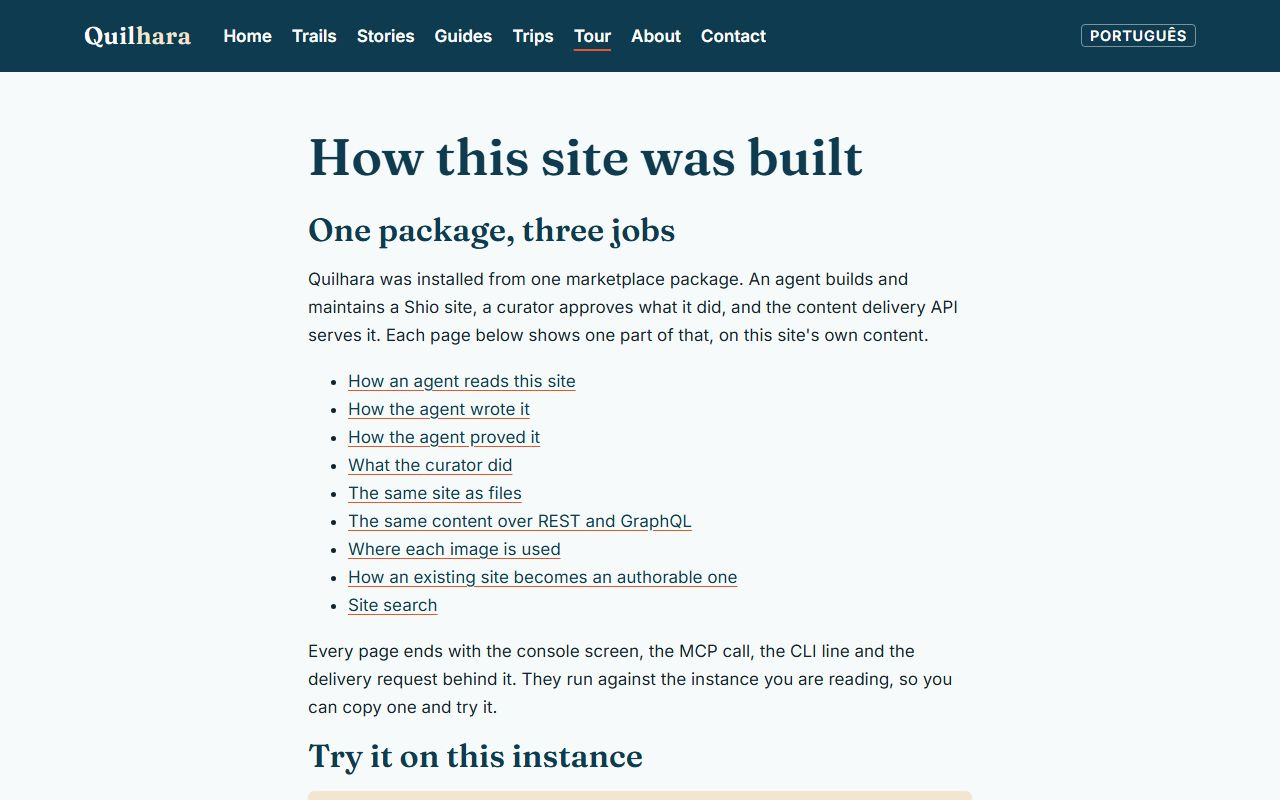
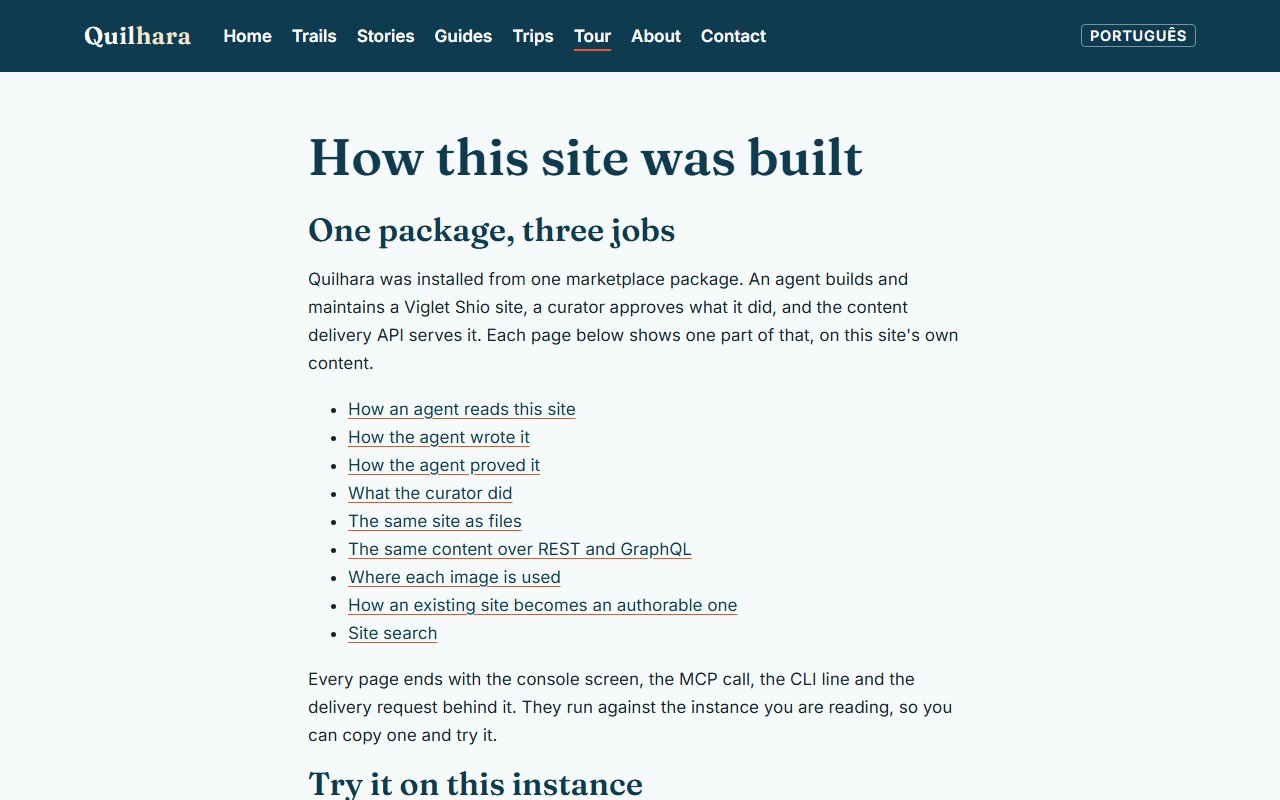
docs(marketplace): name the product in full on the Quilhara pages and retake the tour screenshot (SH1376)
- This commit updates the Quilhara sample pages to consistently use the full product name "Viglet Shio" in both English and Portuguese, aligning with the established naming conventions.
- The tour screenshot has been retaken to reflect the updated content, ensuring that visual representations match the textual changes.
- A new test has been added to verify that the Quilhara showcase pages do not contain any bare product names, reinforcing the commitment to using the full name throughout the documentation.
- The changes enhance clarity for users by providing consistent branding and product identification across all relevant pages and materials.

Changed region(s): [[0.2188, 0.375, 0.75, 1.0]]

diff --git a/shio-site/docs/src/content/docs/COVERAGE.md b/shio-site/docs/src/content/docs/COVERAGE.md
@@ -245,7 +245,7 @@ These shipped blocks are engineering, repository, or marketing concerns with no 
 | **SH1259**: the CI jobs that boot a live instance set the admin password through `SHIO_ADMIN_PASSWORD` and wait until it authenticates, instead of racing the first-access setup | CI plumbing; the headless password bootstrap it relies on is already documented where an operator meets it |
 | **Block R**: this documentation round: the coverage gate (SH479), the four sidebar hubs (SH482), the pages the rest of the block files into them, and the two instruments that execute their examples (SH499) | Meta: it produced the pages in this very matrix. The hubs are navigation, so they change no verdict below; they are where a 🔴 becomes a page. SH499 closed the block by making these pages *checkable*: `cli/conformance/docs-vocabulary.conformance.mjs` holds every `shio` verb, REST path, `shio_*` tool and `shio.*` key written here against what the product declares, and `docs-examples.conformance.mjs` issues the read-only requests against a running instance, so a renamed verb or a moved endpoint fails a Shio build instead of misleading a reader here. Reopened for the code-to-docs direction the `shio-docs-sync` report found missing: **SH1365** lists all 29 batch ops in [agent-surface § A batch of ops](./agent-surface.md#a-batch-of-ops) and fails the suite on any op no page names; **SH1366** does the same for the MCP resources in [mcp § Resources](./mcp.md#resources); **SH1367** for the CLI verbs in [cli § The commands](./cli.md#the-commands), held to `shio <verb>` rather than a bare word, which is how eight commands named after common words had read as documented; **SH1368** puts every bound `shio.*` key on [configuration-reference](./configuration-reference.md), the page that says it lists them all, and holds the suite to that one page |
 | **Blocks T and U**, the documentation's own instruments and upkeep: SH674 (the extractor's fence regex had stopped matching, so the pages published unchecked), SH697 (the tool table read on SH663's narrow rule, with the stated count derived), SH698 (a conformance teardown that names the server, the deadline and the open sockets instead of hanging), SH700 (the gate reads the docs repo at origin, not a local working copy), SH715 (the redirect plugin, so a moved hub does not break a published link), SH747 (a ratchet: the count of shipped ids this matrix does not name may fall and may not rise), SH752 (a block heading standing over no open task fails the run, so a block that empties is closed rather than left as a heading nobody removes), SH758 (this matrix lives in another repository from the ships it tracks, so a mirror of the ids it names is generated into the Shio tree and the gate there reports, minutes after a ship, what has not been named yet; the ratchet stays the enforcement and only the moment of discovery moves), SH759 (a window closing is a fact about time, so the session guard takes a Clock and its test moves an hour rather than setting the window to a nanosecond and hoping the machine's clock ticked between two adjacent reads), SH1190 (SH1182-SH1189 named in their cluster rows and the mirror regenerated, so the AX, BD and BI sweep claims hold) | Instruments over this very matrix and the pages around it. They change what a *contributor* may publish, not what a reader can do: the pages themselves are the rows above |
-| **Block S**: the public site at [shio.viglet.org](https://shio.viglet.org/) (SH530 and the Block S backlog), its `shio-site/` app, prerender and Pages deploy, and **SH925**, which turned the AI-writing checklist on the site's own prose into a lint and made five of the counts it publishes read back from the surface each describes, so a number on the marketing page cannot drift from the thing it counts  **SH929** removed the em dash from the site's published prose in all four of its spellings, the lint that had exempted it now refusing every one a reader could be handed, and **SH930** closed the block by deciding how far that rule reaches: of the sixteen em dashes in the marketplace tree the site republishes but does not own, the six that are blueprint **sample content** were rewritten, because they become a page the user publishes, while the ten that are field help stay with the 38 of the same kind in the console's own bundles. The rule follows the prose to its reader rather than to a module. Then the agent-ready positioning: **SH1241** (the GitHub repositories carry the agent-ready descriptor, the site as homepage and the MCP topics), **SH1242** (`/claude-code` and `/features/agent-gateway` say CMS for Claude Code, MCP CMS and agent-ready CMS), **SH1244** (the home's title, hero pills and share image say agent-ready instead of headless) and **SH1243** (Google Analytics loads only after the visitor accepts a consent banner, which the footer reopens). **SH1248** publishes the release notes as `shio.viglet.org/changelog.json`, a feed the site serves rather than a page, so it needs no page here. **SH1262** moved this documentation into the site, at `shio.viglet.org/docs` with the site's own design, so it is where these pages are served rather than something they describe. **SH1258** gives the site a `/showcase` page and a landing section for the Quilhara sample site, with both install paths and its screenshots; the install itself is documented on the blueprints page. **SH1369** names the product Viglet Shio in every string a visitor or a crawler reads on the site, breadcrumbs and the phone header included, and a lint holds it there. **SH1370** gives the opening bands the hub's visual grammar: a themed surface, plain eyebrow text and a solid accent. **SH1371** sends every link out through one map: Get started is the installation guide on both the site and these pages, and release notes are the hub's. **SH1372** keeps the home to the sections a visitor decides with and indexes the depth, which renders on its own pages. **SH1373** explains the optional Viglet Turing indexing on the delivery page, off by default and only on publish, and names Claude Code as the one host with a plugin. **SH1377** carries the full names into the .mdx section landing pages and their card descriptions. **SH1374** checks the built pages themselves: names, metadata, JSON-LD, links and Markdown twins, and in a browser at three widths and both themes, with the menu and consent journeys. | Marketing, and it is the *entrance* to this documentation rather than part of it. Every claim it makes is a page here or in `docs/agents/**`, so a row of its own would duplicate a verdict already recorded above; what it owes those pages is a correct link, not coverage |
+| **Block S**: the public site at [shio.viglet.org](https://shio.viglet.org/) (SH530 and the Block S backlog), its `shio-site/` app, prerender and Pages deploy, and **SH925**, which turned the AI-writing checklist on the site's own prose into a lint and made five of the counts it publishes read back from the surface each describes, so a number on the marketing page cannot drift from the thing it counts  **SH929** removed the em dash from the site's published prose in all four of its spellings, the lint that had exempted it now refusing every one a reader could be handed, and **SH930** closed the block by deciding how far that rule reaches: of the sixteen em dashes in the marketplace tree the site republishes but does not own, the six that are blueprint **sample content** were rewritten, because they become a page the user publishes, while the ten that are field help stay with the 38 of the same kind in the console's own bundles. The rule follows the prose to its reader rather than to a module. Then the agent-ready positioning: **SH1241** (the GitHub repositories carry the agent-ready descriptor, the site as homepage and the MCP topics), **SH1242** (`/claude-code` and `/features/agent-gateway` say CMS for Claude Code, MCP CMS and agent-ready CMS), **SH1244** (the home's title, hero pills and share image say agent-ready instead of headless) and **SH1243** (Google Analytics loads only after the visitor accepts a consent banner, which the footer reopens). **SH1248** publishes the release notes as `shio.viglet.org/changelog.json`, a feed the site serves rather than a page, so it needs no page here. **SH1262** moved this documentation into the site, at `shio.viglet.org/docs` with the site's own design, so it is where these pages are served rather than something they describe. **SH1258** gives the site a `/showcase` page and a landing section for the Quilhara sample site, with both install paths and its screenshots; the install itself is documented on the blueprints page. **SH1369** names the product Viglet Shio in every string a visitor or a crawler reads on the site, breadcrumbs and the phone header included, and a lint holds it there. **SH1370** gives the opening bands the hub's visual grammar: a themed surface, plain eyebrow text and a solid accent. **SH1371** sends every link out through one map: Get started is the installation guide on both the site and these pages, and release notes are the hub's. **SH1372** keeps the home to the sections a visitor decides with and indexes the depth, which renders on its own pages. **SH1373** explains the optional Viglet Turing indexing on the delivery page, off by default and only on publish, and names Claude Code as the one host with a plugin. **SH1377** carries the full names into the .mdx section landing pages and their card descriptions. **SH1374** checks the built pages themselves: names, metadata, JSON-LD, links and Markdown twins, and in a browser at three widths and both themes, with the menu and consent journeys. **SH1376** carries the full names into the Quilhara sample pages the showcase screenshots, with the tour screenshot retaken. | Marketing, and it is the *entrance* to this documentation rather than part of it. Every claim it makes is a page here or in `docs/agents/**`, so a row of its own would duplicate a verdict already recorded above; what it owes those pages is a correct link, not coverage |
 | **Block BJ, what a visitor finds first**: the landing counts the MCP tools and resources from the lists the server registers, twelve and thirteen (**SH1341**); the Releases tab shows 2026.3 as Latest with its jar, and the 2018–2021 releases as pre-releases (**SH1339**); the repository homepage and every README point at shio.viglet.org (**SH1340**); and the Docker image builds again, its build stage carrying the library Node 26 loads (**SH1348**), so `ghcr.io/openviglet/shio:2026.3` is the same commit as the release (**SH1349**); and the six diagrams the docs pages draw are served under /docs/, with a lint refusing any root path that leaves the site (**SH1350**); releases are tagged `v<version>` so the version branch can be pushed by its short name (**SH1358**), and the site, the docs and every README are back on shio.viglet.org at the root (**SH1359**) | — | ✅ (SH1339, SH1340, SH1341, SH1348, SH1349, SH1350, SH1358, SH1359) · the release, the links and the image are how a visitor reaches Shio, not a feature a docs page describes |
 | **Block AQ/AS instruments**, three build-time readers with no user-facing surface: **SH886** (a census of how much console chrome the console still renders: 43 pages, 0 on the shared bento layer, held as a named list rather than a ceiling, so one migrated page cannot pay for the next; two of the three figures the plan opened with turned out to be wrong, having been grepped once by hand and never recomputed), **SH896** (a digest of each console surface: its era, the chrome it composes in source order, and the classes carrying the frosted panel, so `--against` a saved survey proves a migrated page by command instead of by somebody looking; it reads source rather than rendering, because the instance runs no browser), **SH895** (`copy-ds.cmd` forwards to the design system's own `use:local`, which resolves the consumer and the install path instead of hardcoding a checkout that had moved two versions earlier), **SH948** (`copy-ds.cmd` finds the design system through its `latest` worktree junction, or `VIGLET_DS`, since the bare sibling path had become the worktree container), **SH928** (the JSX scanner six of those readers share was dropping any container whose children self-close under the same tag, 48 of `App.tsx`'s 50 routes and neither route tree, so a lint asking about a tree passed by never seeing one), **SH919** (the design system's duplicate gate dropped its first positional root on any run without `--manifest`, so naming a directory scanned a different one; fixed upstream in VDS78, and the consumer passes `src` the ordinary way now with an assertion that points the gate at an empty directory, the one arrangement this package can tell a read root from a fallback), **SH937** (three roadmap lines were waiting on a design-system release and only one could notice when its wait ended; the waits are a named list with a probe each, and on its first release it failed three times in one run and correctly left the third alone), **SH923** (the bento layer had no frosted panel without a heading, so four surfaces silently rendered console cards; VDS79 exports `BentoPanel` and the copied classes are gone), **SH932** (three components named `Adaptive*` are `PageHero`, `Panel` and `EmptyState`: two had no chrome branch left, and the third branches on inside-versus-outside the shell rather than on an era, which is permanent), **SH927** (the explorer's Monaco workers fall back to the main thread under the Vite dev server, so `console:check` was permanently red on two probes for anybody running it the documented way; six fixes were refuted by measurement, including framing the GraphiQL that Spring serves, which loads twenty resources from a CDN with no local fallback, so the fallback is now a named exemption scoped to the dev server, still a failure against the jar, that expires by failing the day the workers start), **SH935** (the two route fields on a nav entry stay: Shio's are collapsed behind a one-line helper already, and Turing's 31 entries hold different values in them and read a missing `bentoRoute` as an unmigrated surface) | Contributor instruments and a developer script; none changes what a curator or a reader can do |
 | **Block AT**, what the Turing round left behind: **SH916** (six `org.apache.tika` declarations nothing imported, removed with the 23 compile-scope artifacts they carried: pdfbox's seven and the four BouncyCastle jars pdfbox pulls for encrypted PDFs; a CVE in any of them was a CVE triaged against code that never ran, and a lint now fails the next such declaration on the day it is added), **SH917** (the silent-catch inventory counts *decisions* rather than `catch` blocks: a method declaring `one-decision:` counts once however many catches implement it, because the figure had been pricing duplication: collapsing three identical numeric parsers into one helper had moved it by two while changing nothing about the program), **SH939** (`ShUtils.isJSONValid` had no callers and was the only thing importing `org.json`, whose declaration claimed it "previously came transitively via the now-removed turing-java-sdk": the sdk is not removed and still brings the library, so deleting the declaration downgraded it rather than dropping it, and it is a `dependencyManagement` pin now; the second `org.json.JSONObject` on the test classpath, a 2013 Android stub `jsonassert` carries, is excluded, and a lint fails on a class two jars supply instead of Spring Boot advising it on every boot) | Build hygiene and a contributor instrument; neither changes what a curator or a reader can do |

diff --git a/docs/IMPROVEMENTS.md b/docs/IMPROVEMENTS.md
@@ -287,31 +287,6 @@ to reach it, and the opening line. It ships a Contact post-type for the form,
 verify.posts promises the three pages, and the apply benchmark in
 token-budgets.properties takes a row for it.
 
-### XI.110 Full product names in the Quilhara package (SH1376)
-
-SH1369 applied the hub's naming decision (viglet.org docs/STRATEGY.md section I.7: every
-visitor-facing mention is Viglet Shio, Viglet Turing or Viglet Dumont, repeated mentions
-included) to shio.viglet.org, its docs pages and the marketplace catalogue's
-description. It left the Quilhara package's own pages alone, because they are sample
-content a user applies and publishes, not the product's site, and changing them moves
-more than copy.
-
-They still name the product bare: `marketplace/quilhara/content/en-us.json` (the about
-page's "a Shio site", the feature tour's "which Shio capability", the delivery page's
-"Shio renders this site itself", the replication page's "Shio captures one") and the
-same four in `pt-br.json` ("um site Shio", "O Shio renderiza"). The showcase page on
-shio.viglet.org shows screenshots of exactly these pages, so the public site still
-displays the bare name in an image.
-
-What to change: the eight strings, in both languages, to the full name. Then re-run what
-the package feeds: `ShBlueprintAccessibilityTest` (the apply report's token ceiling,
-`blueprint.apply.quilhara`), the marketplace build (`shio-site/scripts/marketplace.mjs`,
-whose zip must stay byte-stable), and the showcase screenshots if any of the changed
-text is visible in them.
-
-Done when the package's content carries no bare product name, the Java and site suites
-are green, and the showcase screenshots match the text.
-
 ## XII. Agent safety & human-in-the-loop (Block L)
 
 > An agent-driven CMS is only adoptable if a human can bound it and undo it.

diff --git a/docs/CHANGELOG.md b/docs/CHANGELOG.md
@@ -419,6 +419,7 @@
 - **SH1302** — The content browser locks a members-only row and the site form saves its sign-in switch, both checked in a browser, which also found and fixed the site request dropping that switch (design §XI.68 recorded in `docs/agents/console-ui.md`).
 - **SH1303** — The console's site save stores the page type it sends, and a test now fails the build when the site form writes a key ShSiteRequest does not declare (design §XI.69 recorded in `docs/agents/console-ui.md`).
 - **SH1356 (SectionGallery)** — SectionGallery joined the vocabulary: photos with captions whose alt is each asset's own, drawn by the union layout through {{#image}} and by a React Gallery, emitted into every package.
+- **SH1376** — The Quilhara sample pages name Viglet Shio in full in both languages, the tour screenshot is retaken from a clean instance with the package applied from this tree, and the full-names lint reads the package's content.
 
 ## Block M — Token economy, measured (SH74)
 

diff --git a/docs/ROADMAP.md b/docs/ROADMAP.md
@@ -13,7 +13,6 @@
 
 - ⏳ **SH1245** (deps: owner submits entries) **No MCP directory or Claude Code plugin list names Shio, so a Claude Code user meets it only by chance** — Entries are drafted in the visibility repo; the npm package must ship mcpName before the registry accepts it. → §XI.28
 - ⏳ **SH1356** (deps: decision: how a FORM token reaches a script-free form) **No blueprint carries a photo gallery or a contact form, so a site built from photos has nowhere for them** — SectionForm and the small-business package remain; a script-free form must carry the FORM token, a security choice. → §XI.109
-- 📋 **SH1376** (deps: SH1369 ✅) **The Quilhara sample pages still name the product bare, in both languages and in the showcase screenshots** — The hub's full-name rule covers what a visitor reads, and the showcase displays these pages on the public site. → §XI.110
 
 ## Block BG — The console as an application: cost, resilience and access
 
